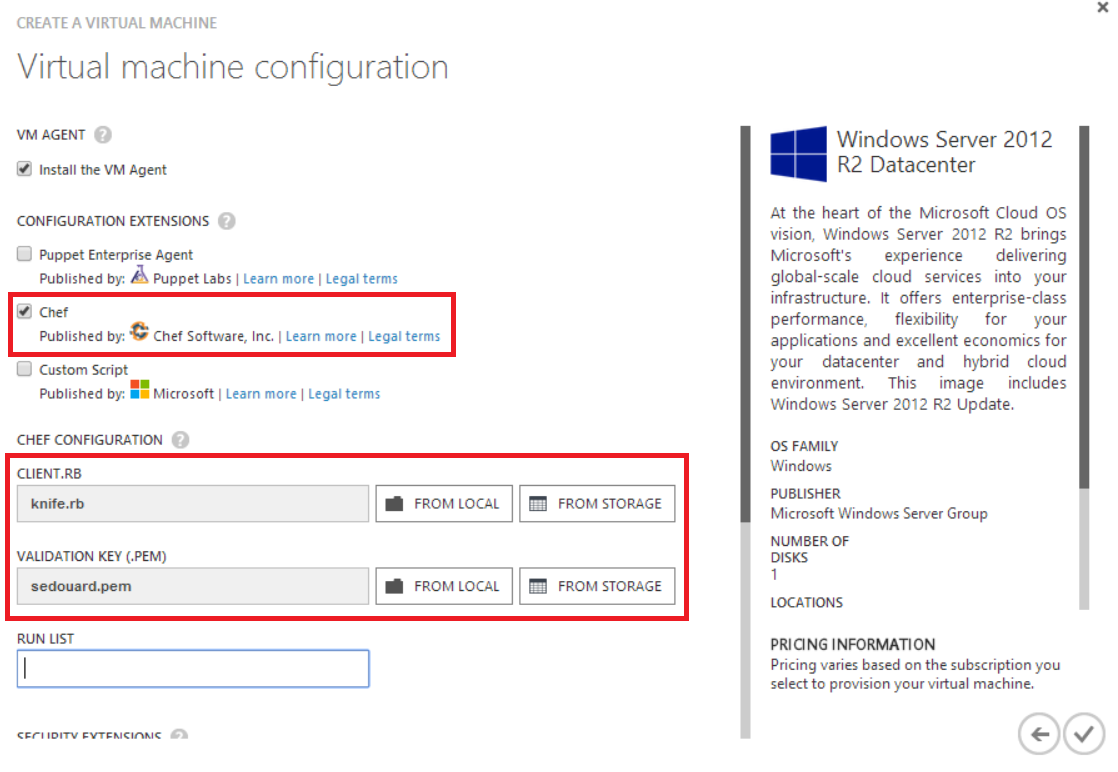
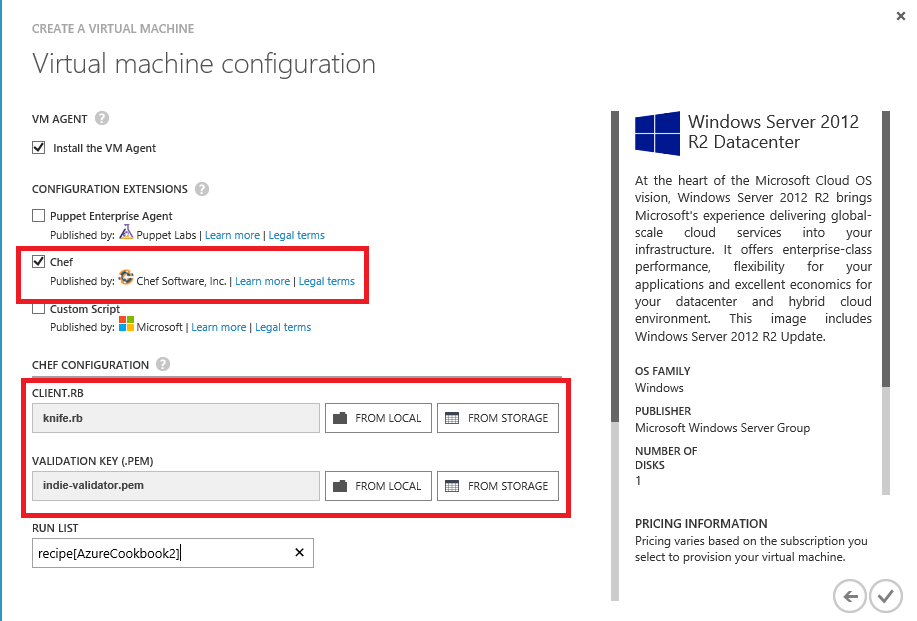
Adding Chef Demo

diff --git a/Chef/End/AzureCookbook2/recipes/default.rb b/Chef/End/AzureCookbook2/recipes/default.rb
@@ -1,0 +1,39 @@
+# This line will install Apache2 from the current source on internet
+windows_package 'apache2' do
+    source 'http://apache.osuosl.org//httpd/binaries/win32/httpd-2.0.65-win32-x86-openssl-0.9.8y.msi'
+    action :install 
+end
+
+
+# Copy the configuration file for apache in the right location 
+cookbook_file 'C:/Program Files (x86)/Apache Group/Apache2/conf/httpd.conf' do
+    source 'httpd.conf'
+end
+
+
+# Install Apache as a service on Windows using the command line
+windows_batch "ApacheAsService" do
+    code <<-EOH
+    "C:\\Program Files (x86)\\Apache Group\\Apache2\\bin\\Apache.exe" -k install
+    EOH
+end
+
+
+# Create the file from a template that will be home page of our site
+template "C:/Program Files (x86)/Apache Group/Apache2/htdocs/index.html" do
+    source "index.html.erb"    
+end
+
+
+# Enable Port 80 on the Firewall of the VM
+powershell_script "FWPort80" do
+    code <<-EOH 
+    New-NetFirewallRule -DisplayName "Allow Apache" -Direction Inbound -Program "C:\\Program Files (x86)\\Apache Group\\Apache2\\bin\\Apache.exe"
+    EOH
+end
+
+
+# Ensure that the apache service is started 
+service "Apache2" do
+    action :start 
+end

diff --git a/Chef/End/AzureCookbook2/metadata.rb b/Chef/End/AzureCookbook2/metadata.rb
@@ -1,0 +1,8 @@
+name             'AzureCookbook2'
+maintainer       'YOUR_COMPANY_NAME'
+maintainer_email 'YOUR_EMAIL'
+license          'All rights reserved'
+description      'Installs/Configures AzureCookbook2'
+long_description IO.read(File.join(File.dirname(__FILE__), 'README.md'))
+version          '0.1.0'
+depends          'windows'

diff --git a/Chef/End/AzureCookbook2/files/default/httpd.rb b/Chef/End/AzureCookbook2/files/default/httpd.rb
@@ -1,0 +1,3 @@
+ServerRoot "c:/Program Files (x86)/Apache Group/Apache2"
+ServerAdmin test@demo.com
+ServerName AzureVM1:80

diff --git a/Chef/README.md b/Chef/README.md
@@ -1,0 +1,202 @@
+# Auto-Configuring A Virtual Machine With Chef
+
+## Objectives
+
+By the end of this lab you will:
+
+- Understand how 3rd party IT Automation framework integrates with Azure
+- Be able to setup a Virtual Machine
+
+
+## Introduction
+
+![](ScreenShots/ss1.png)
+
+Chef is an IT automation framework which is popular with many Linux administrators to automate the setup of servers. Microsoft Open Tech has partnered with Chef to create [Knife](http://docs.getchef.com/plugin_knife_azure.html) an extension for chef which allows the management of Windows Machines with Azure.
+
+## Getting setup
+
+In this lab we will provision a Virtual Machine with Apache using Chef. In order to complete this lab a you need to [sign up for a free hosted chef account](http://getchef.com).
+
+Start from the **Start** folder in this repository.
+
+After signing up for Chef, you need to download your Start kit which includes some account keys that you will need to access your chef account. These account keys allow you to store Chef cookbooks which is what is used in Chef automation. You can find this under the **Administration Tab ** under the Starter Kit section:
+
+![](ScreenShots/ss2.png)
+
+This will download a .zip package which you should save and extract to somewhere safe.
+
+In order to use Knife, the Chef client for Windows, you must [install Ruby](http://rubyinstaller.org/). The version of Ruby must be greater than or equal to version 1.9.3.
+
+Now, to install Knife, you can use the [**gem**](http://rubygems.org) package manager to install Knife. (this may take a few minutes)
+
+```batch
+gem install knife-azure
+```
+
+Now we are setup to start creating cookbooks
+
+## Setting up the configuration file
+
+After installing Knife, you need to set your configuration file to point to the cookbooks in your repository. (The **Start** folder if you started from there). We get this configuration file from the Start Kit we downloaded in the previous section under **.chef/knife.rb**
+
+
+```rb
+# See http://docs.getchef.com/config_rb_knife.html for more information on knife configuration options
+
+# We will use this version in Azure
+current_dir = File.dirname(__FILE__)
+log_level                :info
+log_location             STDOUT
+node_name                "sedouard"
+client_key               "#{current_dir}/sedouard.pem"
+validation_client_name   "indie-validator"
+validation_key           "#{current_dir}/indie-validator.pem"
+chef_server_url          "https://api.opscode.com/organizations/indie"
+cache_type               'BasicFile'
+cache_options( :path => "#{ENV['HOME']}/.chef/checksums" )
+cookbook_path            ["#{current_dir}/../cookbooks"]
+```
+
+By default it is set to have the your cookbooks within the root folder of the starter kit. However, the cookbooks you will need are inside your **Start** folder. So change the **cookbook_path** variable to point to your **Start** folder
+
+
+```rb
+# See http://docs.getchef.com/config_rb_knife.html for more information on knife configuration options
+
+# !!!!SAVE THIS VERSION AS A COPY !!!
+current_dir = File.dirname(__FILE__)
+log_level                :info
+log_location             STDOUT
+node_name                "sedouard"
+client_key               "#{current_dir}/sedouard.pem"
+validation_client_name   "indie-validator"
+validation_key           "#{current_dir}/indie-validator.pem"
+chef_server_url          "https://api.opscode.com/organizations/indie"
+cache_type               'BasicFile'
+cache_options( :path => "#{ENV['HOME']}/.chef/checksums" )
+cookbook_path            ["C:/Users/sedouard/Documents/GitHub/AzureDevopsLabs/Chef/start"]
+```
+**Note:** Be sure to save this as a COPY of your configuration file. We will use the original for our Azure VM and its very imporatant that you preserve that version.
+
+Now we will create our own cookbook which will install Apache and set it up to run a simple web page. We will specify the **-c** argument which points to our configuration file.
+
+```
+Knife cookbook create AzureCookbook -c C:\Users\sedouard\Documents\chef-repo\.chef\knife.rb
+```
+
+![](ScreenShots/ss3.png)
+
+Now we will modify **AzureCookbook2\recipes\default.rb** to install apache for Windows and tell it to start up a default web page we will soon set.
+
+```rb
+# This line will install Apache2 from the current source on internet
+windows_package 'apache2' do
+    source 'http://apache.osuosl.org//httpd/binaries/win32/httpd-2.0.65-win32-x86-openssl-0.9.8y.msi'
+    action :install 
+end
+
+
+# Copy the configuration file for apache in the right location 
+cookbook_file 'C:/Program Files (x86)/Apache Group/Apache2/conf/httpd.conf' do
+    source 'httpd.conf'
+end
+
+
+# Install Apache as a service on Windows using the command line
+windows_batch "ApacheAsService" do
+    code <<-EOH
+    "C:\\Program Files (x86)\\Apache Group\\Apache2\\bin\\Apache.exe" -k install
+    EOH
+end
+
+
+# Create the file from a template that will be home page of our site
+template "C:/Program Files (x86)/Apache Group/Apache2/htdocs/index.html" do
+    source "index.html.erb"    
+end
+
+
+# Enable Port 80 on the Firewall of the VM
+powershell_script "FWPort80" do
+    code <<-EOH 
+    New-NetFirewallRule -DisplayName "Allow Apache" -Direction Inbound -Program "C:\\Program Files (x86)\\Apache Group\\Apache2\\bin\\Apache.exe"
+    EOH
+end
+
+
+# Ensure that the apache service is started 
+service "Apache2" do
+    action :start 
+end
+
+```
+
+We need to create the HTML Rails template. **AzureCookbook2\templates\default\index.html.erb**. This template will display some basic information about the server:
+
+
+```html
+
+<html>
+     <body>
+        <h1> Welcome to My Demo </h1>
+        <h2> Hello, <%= node["fqdn"]%> !</h2>
+        <P>
+            This server has <%= node["kernel"]["cs_info"]["total_physical_memory"].to_i / 1048576 %> MB of memory.
+        </P>
+     </body>    
+</html> 
+
+```
+
+We will also set a file called **AzureCookbook2\files\default\httpd.conf** which will set the basic configuration of the apache server
+
+```conf
+
+ServerRoot "c:/Program Files (x86)/Apache Group/Apache2"
+ServerAdmin test@demo.com
+ServerName AzureVM1:80
+
+```
+
+The last thing we need to do is indicate our cookbook takes a dependency on the **windows** cookbook by noting it in **AzureCookbook2\metadata.rb**:
+
+```rb
+depends 'windows'
+```
+
+Now we need to upload the windows cookbook and the AzureCookbook2 cookbooks to our Chef account:
+
+```batch
+knife cookbook upload chef_handler -c C:\Users\sedouard\Documents\chef-repo\.chef\knife.rb
+knife cookbook upload windows -c C:\Users\sedouard\Documents\chef-repo\.chef\knife.rb
+knife cookbook upload AzureCookbook2
+```
+
+## Start the Azure VM with Automatic Installation and Setup from Chef
+
+Now that we have our cookbooks uploaded we can start a new VM with Chef installed and AzureCookbook2 executed. Under the **Configuration Extensions** section in the last page of the Virtual Machine Configuration Wizard in the portal:
+
+![](ScreenShots/ss0.png) 
+
+You can use the same exact kinfe.rb from your **.chef** folder in your Starter Kit you downloaded from chef. 
+
+Now, start the creation of the VM. The VM will go through the typical provisioning steps and also have a new *extensions* step where it will install chef and run the Chef cookbook:
+
+![](ScreenShots/ss4.png)
+
+
+Now, if you check the dashboard of the VM under the extensions section you will see a bit of output from Chef which shows that the chef client installed correctly and executed the cookbook:
+
+!!!SCREENSHOT PLACEHOLDER !!!
+
+
+Now navigate to **YOUR_VIRTUAL_MACHINE_NAME.cloudapp.net** and you will see that your apache server is running.
+
+Head over to your Chef management portal and you will see a new **node** has appeared. This indicates that you Chef enabled server is now reporting to your Chef account:
+
+
+!!! SCREENSHOT PLACEHOLDER !!! 
+
+
+Congrats! You have created an Azure Virtual Machine configured by Chef!

diff --git a/Chef/End/AzureCookbook2/README.md b/Chef/End/AzureCookbook2/README.md
@@ -1,0 +1,68 @@
+AzureCookbook2 Cookbook
+=======================
+TODO: Enter the cookbook description here.
+
+e.g.
+This cookbook makes your favorite breakfast sandwich.
+
+Requirements
+------------
+TODO: List your cookbook requirements. Be sure to include any requirements this cookbook has on platforms, libraries, other cookbooks, packages, operating systems, etc.
+
+e.g.
+#### packages
+- `toaster` - AzureCookbook2 needs toaster to brown your bagel.
+
+Attributes
+----------
+TODO: List your cookbook attributes here.
+
+e.g.
+#### AzureCookbook2::default
+<table>
+  <tr>
+    <th>Key</th>
+    <th>Type</th>
+    <th>Description</th>
+    <th>Default</th>
+  </tr>
+  <tr>
+    <td><tt>['AzureCookbook2']['bacon']</tt></td>
+    <td>Boolean</td>
+    <td>whether to include bacon</td>
+    <td><tt>true</tt></td>
+  </tr>
+</table>
+
+Usage
+-----
+#### AzureCookbook2::default
+TODO: Write usage instructions for each cookbook.
+
+e.g.
+Just include `AzureCookbook2` in your node's `run_list`:
+
+```json
+{
+  "name":"my_node",
+  "run_list": [
+    "recipe[AzureCookbook2]"
+  ]
+}
+```
+
+Contributing
+------------
+TODO: (optional) If this is a public cookbook, detail the process for contributing. If this is a private cookbook, remove this section.
+
+e.g.
+1. Fork the repository on Github
+2. Create a named feature branch (like `add_component_x`)
+3. Write your change
+4. Write tests for your change (if applicable)
+5. Run the tests, ensuring they all pass
+6. Submit a Pull Request using Github
+
+License and Authors
+-------------------
+Authors: TODO: List authors

diff --git a/Chef/End/AzureCookbook2/CHANGELOG.md b/Chef/End/AzureCookbook2/CHANGELOG.md
@@ -1,0 +1,13 @@
+AzureCookbook2 CHANGELOG
+========================
+
+This file is used to list changes made in each version of the AzureCookbook2 cookbook.
+
+0.1.0
+-----
+- [your_name] - Initial release of AzureCookbook2
+
+- - -
+Check the [Markdown Syntax Guide](http://daringfireball.net/projects/markdown/syntax) for help with Markdown.
+
+The [Github Flavored Markdown page](http://github.github.com/github-flavored-markdown/) describes the differences between markdown on github and standard markdown.
